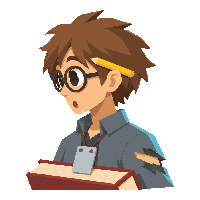
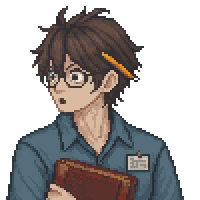
대화 초상화를 새 몸 그림에 맞춤 (PixelLab)
- 주인공 초상화를 화풍 기준으로 정비사·보관인·기록관 초상화를 새로 만듦
- 표정 2는 기본 표정 그림에 얼굴 영역만 바꿔 붙임 (옷·머리가 출렁이지 않게)
- 주인공 결의 표정 추가 (예전에는 표정 1·2가 같은 그림)
- tools/apply_pixellab_portraits.py 추가 (테스트 806개 통과)

diff --git a/tools/apply_pixellab_portraits.py b/tools/apply_pixellab_portraits.py
@@ -1,0 +1,54 @@
+"""대화 초상화(PixelLab v6)를 게임 그림으로 적용한다 (2026-11-25).
+
+은신처 대화창의 초상화 8장(주인공·정비사·보관인·기록관 x 표정 2)을 새 몸 그림과 같은 화풍으로 맞춘다.
+원본: assets/sprites/pixellab/portraits_v6/raw_gen/<인물>_<1|2>.png (100x100, 화면에서는 2배 = 200x200)
+  - <인물>_1 = 기본 표정. 주인공은 예전 초상화(Gemini G04 원화를 줄인 것)를 그대로 쓰고, 이 그림이 NPC 초상화의 화풍 기준이다.
+  - <인물>_2 = 표정만 글로 편집한 것(edit_image_pro_flash). 편집본은 그림 전체가 조금씩 다시 그려지고 색 수도 줄어서,
+    그대로 번갈아 보이면 옷·머리까지 출렁인다.
+하는 일: 표정 2는 **기본 표정 그림에 얼굴 영역(FACE)만** 편집본에서 가져와 붙인다(색은 기본 표정의 색으로 다시 칠한다).
+그래서 표정이 바뀌어도 얼굴 말고는 한 칸도 달라지지 않는다. 최근접 2배로 assets/portraits/<인물>_<1|2>.png 에 쓴다.
+
+실행: python tools/apply_pixellab_portraits.py
+"""
+import os
+import sys
+
+import numpy as np
+from PIL import Image
+
+sys.path.insert(0, os.path.dirname(os.path.abspath(__file__)))
+from apply_pixellab_hero import lock_palette, palette_of  # noqa: E402
+
+ROOT = os.path.dirname(os.path.dirname(os.path.abspath(__file__)))
+RAW = os.path.join(ROOT, 'assets', 'sprites', 'pixellab', 'portraits_v6', 'raw_gen')
+DST = os.path.join(ROOT, 'assets', 'portraits')
+SCALE = 2
+# 얼굴 영역 (x0, y0, x1, y1), 100x100 기준: 눈썹·눈·입이 들어가는 사각형. 머리카락·옷은 건드리지 않는다
+FACE = {'n09': (48, 30, 80, 64), 'mechanic': (17, 24, 50, 60), 'keeper': (14, 20, 48, 66), 'archivist': (20, 24, 54, 64)}
+
+
+def load(name):
+    a = np.array(Image.open(os.path.join(RAW, name + '.png')).convert('RGBA'))
+    a[:, :, 3] = np.where(a[:, :, 3] >= 128, 255, 0)
+    a[a[:, :, 3] == 0] = 0
+    return a
+
+
+def main():
+    for who, (x0, y0, x1, y1) in FACE.items():
+        base = load(f'{who}_1')
+        mood = lock_palette(load(f'{who}_2'), palette_of(base))
+        out = base.copy()
+        inside = np.zeros(base.shape[:2], bool)
+        inside[y0:y1, x0:x1] = True
+        take = inside & (base[:, :, 3] == 255) & (mood[:, :, 3] == 255)      # 윤곽(투명 여부)은 기본 표정 그대로
+        out[take] = mood[take]
+        changed = int((out != base).any(axis=2).sum())
+        for n, a in ((1, base), (2, out)):
+            im = Image.fromarray(a, 'RGBA')
+            im.resize((im.width * SCALE, im.height * SCALE), Image.NEAREST).save(os.path.join(DST, f'{who}_{n}.png'))
+        print(f'{who}: 표정 2에서 바뀐 칸 {changed}, 색 {len(palette_of(out))}')
+
+
+if __name__ == '__main__':
+    main()

diff --git a/docs/DECISIONS.md b/docs/DECISIONS.md
@@ -703,4 +703,4 @@
 - 2026-11-25 **게임에 넣는 캐릭터 그림(주인공·적·보스·NPC)은 v6 방식으로만 만든다**: PixelLab에서 간수(`assets/sprites/pixellab/guard_v6/raw/base.png`)를 화풍 기준으로 디자인 -> 동작 -> `tools/apply_pixellab_char.py`(도트 2px). Codex·Gemini가 그린 캐릭터 그림은 디자인 참고(원화)로만 쓰고 그대로 게임에 넣지 않는다. Codex는 배경·일러스트·소품, Gemini는 원화·초상화·UI. 검토할 때는 크기·색보다 먼저 도트 격자를 잰다(tests/test_pixel_assets.py의 v6 격자 검사).
 - 2026-11-25 **위 규칙을 소품까지 넓힌다 (사용자: "그림체 문제로 이런 건 PixelLab으로 만들자, 돈 주고 산 것이기도 하고")**: 게임 화면에서 캐릭터 옆에 서는 도트 그림(캐릭터·NPC·이벤트 방 소품)은 Codex에 새로 맡기지 않고 Claude Code가 PixelLab으로 만든다. Codex T51(떠돌이 죄수)·T52(헤이즈 샘)는 그림은 좋았지만 2px 격자 일치율이 0.69·0.59(1px 단위 그림)라 게임에 넣지 않고 디자인만 참고했다. Codex의 몫은 배경·일러스트처럼 도트 크기를 캐릭터와 맞출 필요가 없는 그림, Gemini는 원화·초상화·UI 그대로.
 - 2026-11-25 **UI를 C안(결정형, A안 크기)으로 바꿈**: Gemini G06 부품 시트를 `tools/apply_ui_parts.py`로 구운 `assets/ui/uc_*.png`를 HUD(`src/ui.py`)·메뉴 공통(`src/hud_kit.py`)·증강 카드(`src/mutation_mode.py`)가 쓴다. 규칙: UI도 1점 = 화면 2px(짝수 좌표), 색은 G06 13색 중심, **금색은 전설(합성) 카드와 강화 2단계에만**, 결정 장식은 게이지 양끝·든 무기 칸·하트 옆·판 모서리·카드 등급·고른 메뉴 띠에만. 노멀 구간은 옅은 회색(파랑에서 변경), 게이지는 구간 네 색이 늘 보이고 안 찬 부분만 어둡다, 고른 메뉴 항목은 결정 띠(11/22 "상자 없이 글자만"은 고르지 않은 항목에 그대로), 설정 값 밑줄은 청록, 물약은 빨강(체력 색). 예전 부품 그림(`ui_kit_*`, `ui_fill_*`, `hud_heart` 등)은 게임이 쓰지 않지만 파일은 남겨 둠(make_ui.py·make_hud.py가 만드는 것 중 아이템·무기 아이콘, 손잡이, 화살표, 이벤트 방 표시는 계속 쓴다).
-- 2026-11-25 아직 옛 그림(1배 방식)인 캐릭터: 아크, 헤이즈 심장(본체·손), 무당, 쥐, 감시 눈, 망령, 자폭 수레, 은신처 NPC 셋, 떠돌이 죄수. v6로 바꾸는 순서는 발표(12/2) 뒤에 정한다(아크·심장은 Gemini G02 원화가 있다). -> 같은 날 떠돌이 죄수·은신처 NPC 셋은 PixelLab으로 바꿨다. 남은 것: 아크, 헤이즈 심장(본체·손), 무당, 쥐, 감시 눈, 망령, 자폭 수레. PixelLab은 글로 적은 키를 지키지 않으므로 **캔버스 크기로 키를 맞춘다**(키 60도트면 캔버스 높이 64). -> 일반 적 5종(무당·쥐·감시 눈·망령·수레)도 같은 날 PixelLab으로 바꿨다(히트박스·수치는 그대로). **남은 것은 아크와 헤이즈 심장(본체·손)뿐.** PixelLab 동작(pixminimax)은 피격·사망에 충격 별·불티를 자주 그려 넣는다: 설명으로 막기보다 `apply_pixellab_char.py`의 clean으로 지운다. 벽에 붙는 감시 눈은 받침대가 벽에 닿게 기준점을 20px 옮겼다(anchor_dx). -> 아크도 같은 날 PixelLab으로 바꿨다(G02 원화의 설정, 지휘봉을 든 디자인. 베기는 지휘봉으로 벤다). **남은 것은 헤이즈 심장(본체·손)뿐.** -> 헤이즈 심장(본체·손)도 같은 날 바꿨다. **이제 적 11종·보스 4종·NPC 4명은 모두 PixelLab v6 그림이다.** 주인공은 21세트 중 17세트가 v6이고 walk·punch·knife·ult 4세트는 옛 그림 이름으로 남아 있다(지금 게임이 쓰는지는 따로 확인). PixelLab 캔버스(256)보다 큰 대칭 그림은 절반만 만들어 뒤집어 붙인다(`tools/apply_pixellab_heart.py`). -> 주인공의 궁극기 시전 자세(n09_ult)와 맨손 자세(n09_punch)도 같은 날 새 그림에 연결했다. n09_walk·n09_knife는 코드가 쓰지 않는다. **게임이 그리는 캐릭터 그림은 모두 PixelLab v6.**
+- 2026-11-25 아직 옛 그림(1배 방식)인 캐릭터: 아크, 헤이즈 심장(본체·손), 무당, 쥐, 감시 눈, 망령, 자폭 수레, 은신처 NPC 셋, 떠돌이 죄수. v6로 바꾸는 순서는 발표(12/2) 뒤에 정한다(아크·심장은 Gemini G02 원화가 있다). -> 같은 날 떠돌이 죄수·은신처 NPC 셋은 PixelLab으로 바꿨다. 남은 것: 아크, 헤이즈 심장(본체·손), 무당, 쥐, 감시 눈, 망령, 자폭 수레. PixelLab은 글로 적은 키를 지키지 않으므로 **캔버스 크기로 키를 맞춘다**(키 60도트면 캔버스 높이 64). -> 일반 적 5종(무당·쥐·감시 눈·망령·수레)도 같은 날 PixelLab으로 바꿨다(히트박스·수치는 그대로). **남은 것은 아크와 헤이즈 심장(본체·손)뿐.** PixelLab 동작(pixminimax)은 피격·사망에 충격 별·불티를 자주 그려 넣는다: 설명으로 막기보다 `apply_pixellab_char.py`의 clean으로 지운다. 벽에 붙는 감시 눈은 받침대가 벽에 닿게 기준점을 20px 옮겼다(anchor_dx). -> 아크도 같은 날 PixelLab으로 바꿨다(G02 원화의 설정, 지휘봉을 든 디자인. 베기는 지휘봉으로 벤다). **남은 것은 헤이즈 심장(본체·손)뿐.** -> 헤이즈 심장(본체·손)도 같은 날 바꿨다. **이제 적 11종·보스 4종·NPC 4명은 모두 PixelLab v6 그림이다.** 주인공은 21세트 중 17세트가 v6이고 walk·punch·knife·ult 4세트는 옛 그림 이름으로 남아 있다(지금 게임이 쓰는지는 따로 확인). PixelLab 캔버스(256)보다 큰 대칭 그림은 절반만 만들어 뒤집어 붙인다(`tools/apply_pixellab_heart.py`). -> 주인공의 궁극기 시전 자세(n09_ult)와 맨손 자세(n09_punch)도 같은 날 새 그림에 연결했다. n09_walk·n09_knife는 코드가 쓰지 않는다. **게임이 그리는 캐릭터 그림은 모두 PixelLab v6.** 대화 초상화도 같은 날 PixelLab으로 맞췄다(주인공 초상화가 화풍 기준). 표정이 여럿인 그림은 **기본 표정에 얼굴 영역만 바꿔 붙인다**(편집본을 통째로 쓰면 옷·머리까지 출렁인다): `tools/apply_pixellab_portraits.py`.

diff --git a/docs/PROGRESS.md b/docs/PROGRESS.md
@@ -26,7 +26,7 @@
 3. [ ] **(Claude Code) 3차 발표 자료**: 초안 완료(11/25) `docs/presentation_3rd.pptx`(10장), `docs/script_3rd.md`(대본·촬영 순서·제출 체크리스트). 1차와 같은 형식(PPT 10쪽 이내 + 영상 1분 30초)으로 가정했다. 형식이 확인되면 `tools/make_presentation_3rd.py`를 고쳐 다시 만들고, 게임이 바뀌면 화면을 다시 찍는다. **(사용자) 한 번 열어 보고 고칠 곳을 알려 주기.**
 4. [ ] **(사용자) 데모 촬영 → YouTube 업로드 → e-class 제출.** CC-BY 곡을 쓰면 영상 설명란에 곡명·작가·라이선스.
 5. [ ] **(사용자, 제출 전 필수)** `docs/ASSETS.md` 맨 끝 표의 빈칸(이미지 생성 도구의 모델명·이용 조건). **주인공 동작을 PixelLab 체험판 계정으로 만들었다: 체험판 생성물을 공개 영상·저장소에 써도 되는지 확인.** 채워지면 크레딧 문구를 고친다.
-6. [x] **이벤트 방 그림**: 떠돌이 죄수·헤이즈 샘을 PixelLab v6 그림으로 바꿈(11/25). Codex T51·T52는 격자가 달라 게임에 쓰지 않았다. **앞으로 캐릭터 옆에 서는 도트 그림은 PixelLab으로 만든다(사용자 결정)**. 은신처 NPC 셋(정비사·보관인·기록관)도 11/25에 PixelLab으로 바꿈. 일반 적 5종(무당·쥐·감시 눈·망령·수레)도 11/25에 바꿈. 아크·헤이즈 심장도 11/25에 바꿈. 주인공의 남은 두 세트(궁극기 시전·맨손)도 11/25에 연결. **게임이 그리는 캐릭터 그림은 모두 PixelLab v6.** 남은 것: 대화 초상화(Gemini)와 몸 그림의 인상 맞추기, 발표 그림을 한 번에 다시 찍기.
+6. [x] **이벤트 방 그림**: 떠돌이 죄수·헤이즈 샘을 PixelLab v6 그림으로 바꿈(11/25). Codex T51·T52는 격자가 달라 게임에 쓰지 않았다. **앞으로 캐릭터 옆에 서는 도트 그림은 PixelLab으로 만든다(사용자 결정)**. 은신처 NPC 셋(정비사·보관인·기록관)도 11/25에 PixelLab으로 바꿈. 일반 적 5종(무당·쥐·감시 눈·망령·수레)도 11/25에 바꿈. 아크·헤이즈 심장도 11/25에 바꿈. 주인공의 남은 두 세트(궁극기 시전·맨손)도 11/25에 연결. **게임이 그리는 캐릭터 그림은 모두 PixelLab v6.** 대화 초상화도 11/25에 새 몸 그림에 맞춤. 남은 것: 발표 그림을 한 번에 다시 찍기.
 7. [ ] **(사용자) 효과음 검토**: 연습장 F 메뉴 → '효과음 듣기'. 표시한 소리부터 Claude Code가 다시 만든다(`sfx_review.json`).
 8. [ ] **(사용자 결정)** 주인공 이름(화면에는 'N-09'만 나온다), 대화 초상화를 지금 주인공 그림에 맞출지.
 9. [ ] **(사용자)** 실행 파일을 파이썬 없는 PC에서 켜 보기, 게임패드가 있으면 몇 방.
@@ -387,3 +387,4 @@
 2026-11-25 [Claude Code] 최종 보스 아크를 PixelLab v6 그림으로 교체: Gemini G02 원화를 글로 옮긴 시안 2장 중 2안, 동작 11개(걷기는 뼈대, 나머지 pixminimax), 탄환·베는 호·충격 별이 그려진 프레임은 몸만 남기는 옵션(clean_body)으로 정리, 옛 세트 12개에 연결(장수·히트박스 그대로). 실제 창에서 패턴 다섯 개와 페이즈·피격·사망 확인. 23회 사용 / tools/apply_pixellab_char.py, assets/sprites/pixellab/ark_v6/, assets/sprites/unified/v6_ark_*.png, skin_ark.json, docs/(PROGRESS, DECISIONS, ASSETS, image_prompts).md
 2026-11-25 [Claude Code] 헤이즈 심장(본체·손)을 PixelLab v6 그림으로 교체: 본체는 캔버스 한도(256)를 넘어 왼쪽 절반만 만들어 뒤집어 붙임(896x480px), 문 열림·부서짐 동작, 손은 시안 3장 중 2안과 대기·주먹·손바닥·기절 자세. 전용 적용 도구 추가(방 안쪽 채우기, 흰 결정, 꺼진 손 불빛, 옛 기준점 규칙), 테두리 미리 만들기가 새 그림을 쓰도록 수정. 실제 창에서 닫힘·내려치기·광선·손 기절·열림·피격·쓰러짐 확인. 이로써 적·보스·NPC 그림이 모두 PixelLab v6. 남은 횟수 1,399회 / tools/apply_pixellab_heart.py(신규), src/sprites.py, assets/sprites/pixellab/(heart_core_v6, heart_hand_v6)/, assets/sprites/unified/v6_heart_*.png, skin_heart.json, docs/(PROGRESS, DECISIONS, ASSETS, image_prompts).md
 2026-11-25 [Claude Code] 주인공에 남아 있던 옛 그림 정리: 궁극기 시전 자세를 PixelLab으로 새로 만들고(1회, 모으기·해방 2장), 맨손 자세는 건틀릿 그림을 다시 써서 연결. n09_walk·n09_knife는 코드가 쓰지 않음을 확인. 실제 창에서 시전 자세 확인 / tools/apply_pixellab_hero.py, src/sprites.py, assets/sprites/pixellab/hero_v6_test/(raw/v3_ult/, GENERATION_LOG.md), assets/sprites/unified/(hero6_ult_*, hero6_punch_*, hero6.json), docs/(PROGRESS, DECISIONS, ASSETS).md
+2026-11-25 [Claude Code] 대화 초상화를 새 몸 그림에 맞춤: 주인공 초상화를 화풍 기준으로 NPC 셋의 초상화를 PixelLab으로 새로 만들고(기본 표정 3장), 표정 2는 글 편집본에서 얼굴 영역만 가져와 붙임(주인공 결의 표정도 추가: 예전에는 표정 1·2가 같은 그림이었다). 적용 도구 추가. 실제 창에서 세 NPC 대화창 확인. 48회 사용 / tools/apply_pixellab_portraits.py(신규), assets/portraits/*.png, assets/sprites/pixellab/portraits_v6/, docs/(PROGRESS, DECISIONS, ASSETS, image_prompts).md

diff --git a/assets/sprites/pixellab/portraits_v6/GENERATION_LOG.md b/assets/sprites/pixellab/portraits_v6/GENERATION_LOG.md
@@ -1,0 +1,39 @@
+# 대화 초상화 portraits v6 생성 기록 (2026-11-25, Claude Code)
+
+배경: 은신처 대화창의 NPC 초상화 6장(Codex T32)은 밝은 평면 만화풍에 1px 단위(2px 격자 일치율 0.8)라, 같은 날 PixelLab으로 바꾼
+NPC 몸 그림·주인공 초상화와 화풍이 달랐다. 사용자 요청: "대화 초상화를 새 몸 그림에 맞춰줘".
+
+## 화풍 기준
+주인공 초상화 `assets/portraits/n09_1.png`(Gemini G04 원화를 줄인 것, 2px 격자)를 1배(100x100)로 줄인 `raw/hero_style_100.png`.
+주인공 기본 표정은 이 그림을 그대로 쓴다.
+
+## NPC 기본 표정 (18회: 6회 x 3장)
+`create_image_pro_flash`, 100x100, seed 3, style_image = hero_style_100,
+usage "Portrait art style, head size, framing, shading, outline and pixel scale only. This is the hero's dialogue portrait from the same game;
+draw a different person in exactly this style." 세 장 모두 한 번에 통과. 설명은 새 몸 그림(`../mechanic_v6` 등)과 같은 설정:
+- mechanic_1: Dialogue portrait, head and shoulders bust, three-quarter view facing LEFT ... A sturdy, confident woman mechanic ...: tanned skin,
+  dark hair tied up in a bun, orange goggles pushed up on her forehead, strong jaw, calm serious expression ... olive-green work overalls with
+  metal buckles over a dark shirt; one shoulder shows a grey mechanical prosthetic arm with a small teal light; the head of a big steel wrench
+  is visible behind her shoulder.
+- keeper_1: ... An old storekeeper ...: a wrinkled old man with a long nose, bushy grey eyebrows and a grey beard, tired but kind eyes ...
+  worn brown hooded cloak with the hood up and a faded teal lining ...; a leather strap crosses his chest, and the corner of an iron-banded
+  wooden chest with a padlock is visible on his back.
+- archivist_1: ... A young record keeper (archivist) ...: slim face, messy brown hair, round glasses, a yellow pencil tucked behind the ear ...
+  worn grey-blue shirt with a small ID tag ... hugs the top edge of a thick red-brown ledger book.
+
+## 표정 2 (30회: 6회 x 5장)
+`edit_image_pro_flash`(method text, "Change only the facial expression ... Keep everything else exactly the same").
+| 파일 | 표정 | 메모 |
+|---|---|---|
+| mechanic_2 | 씩 웃음(이를 보이는 웃음, 한쪽 눈썹) | 좋음 |
+| keeper_2 | 걱정(눈썹을 모으고 아래를 봄) | 좋음 |
+| archivist_2 | 놀람(눈을 크게, 입을 벌림) | 좋음 |
+| n09_2_try1 | 결의 | 다시: 색 고정 옵션 때문에 9색이 되며 청록 눈빛이 사라짐 |
+| n09_2 | 결의(눈썹을 내리고 옅은 웃음), 색 고정 끔, seed 7, "eyes MUST stay bright glowing teal" | 좋음 |
+
+편집본은 그림 전체가 조금씩 다시 그려지고 색 수가 줄어든다. 그대로 번갈아 보이면 옷·머리까지 출렁이므로
+`tools/apply_pixellab_portraits.py`가 **기본 표정 그림에 얼굴 사각형만** 편집본에서 가져와 붙인다(색은 기본 표정의 색으로).
+바뀐 칸: 주인공 521, 정비사 525, 보관인 1284, 기록관 760 (100x100 중).
+
+적용: `python tools/apply_pixellab_portraits.py` -> `assets/portraits/<인물>_<1|2>.png`(200x200, 최근접 2배, 2px 격자 100%).
+확인: `shots/review/portraits_v6_final.png`(여덟 장 + 주인공 편집 원본), `portraits_v6_ingame.png`(대화창 세 장).

diff --git a/docs/image_prompts.md b/docs/image_prompts.md
@@ -329,3 +329,5 @@ One tall mature sinister male prison warden final boss. FIRST reference is exact
 2026-11-25 [Claude Code] PixelLab(v6 방식)으로 최종 보스 아크를 다시 만듦. Gemini G02 원화를 글로 옮김: 키 크고 마른 감시탑 총감시관, 발목까지 오는 검은 군용 코트와 청록 안감, 높은 깃, 청록 마름모 배지의 검은 챙모자, 창백한 얼굴과 빛나는 청록 눈, 어깨·팔뚝 장갑의 청록 결정, 가슴·허리의 청록 약병, 앞손의 가는 검은 지휘봉. 동작은 패턴마다 "예고 자세를 잠깐 유지 -> 실행 자세를 유지"로 지시. 영문 프롬프트 전문·seed·고른 프레임은 `assets/sprites/pixellab/ark_v6/GENERATION_LOG.md`.
 
 2026-11-25 [Claude Code] PixelLab(v6 방식)으로 헤이즈 심장을 다시 만듦. 본체: 정면에서 본 좌우 대칭 요새형 기계의 **왼쪽 절반만**(가운데 절단선이 캔버스 오른쪽 끝) 그리게 해 뒤집어 붙임. 가운데 장갑 문과 청록 이음매, 날개 문장, 볼트 기둥, 청록 띠가 있는 날개 블록, 위쪽 굵은 관, 계단형 받침. 문이 열려 결정이 드러나는 동작과 결정이 깨지며 꺼지는 동작. 손: 손바닥이 보이는 거대한 기계 오른손, 통통한 손가락 넷과 엄지, 손바닥의 큰 청록 결정, 손목 고리. 영문 프롬프트 전문·seed·고른 프레임은 `assets/sprites/pixellab/heart_core_v6/GENERATION_LOG.md`, `heart_hand_v6/GENERATION_LOG.md`.
+
+2026-11-25 [Claude Code] PixelLab으로 은신처 대화 초상화를 새 몸 그림에 맞춰 다시 만듦(화풍 기준 = 주인공 초상화). 왼쪽을 보는 3/4 흉상: 정비사(올린 머리·이마의 주황 고글·올리브 작업복·회색 의수·어깨 뒤 렌치), 보관인(갈색 두건·회색 수염·등의 자물쇠 궤짝), 기록관(헝클어진 갈색 머리·둥근 안경·귀의 연필·회청색 셔츠·장부). 표정 2는 "표정만 바꾸고 나머지는 그대로"로 글 편집(씩 웃음·걱정·놀람·결의). 전문은 `assets/sprites/pixellab/portraits_v6/GENERATION_LOG.md`.
